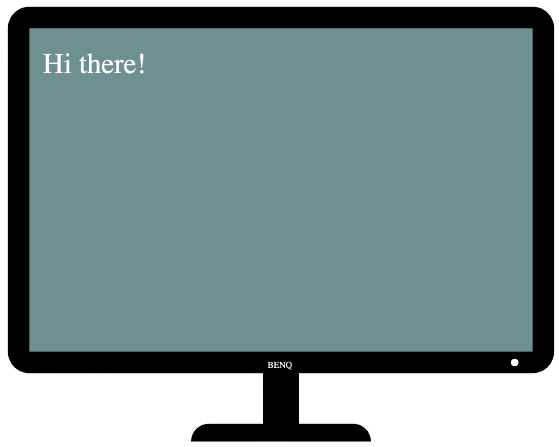
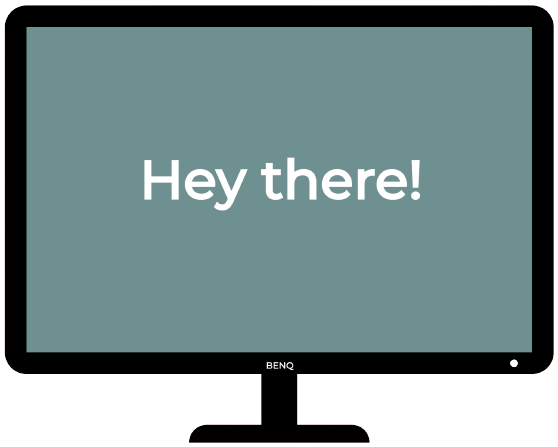
update 404 page to fix site styling

diff --git a/jamestuttleportfolio/src/stylesheets/main.css b/jamestuttleportfolio/src/stylesheets/main.css
@@ -1,20 +1,3 @@
-@keyframes flash_text {
-  0% {
-    opacity: 1; }
-  50% {
-    opacity: 0.3; }
-  100% {
-    opacity: 1; } }
-@keyframes scroll_down {
-  0% {
-    top: 15px;
-    opacity: 1; }
-  50% {
-    top: 22px;
-    opacity: 0.3; }
-  100% {
-    top: 15px;
-    opacity: 1; } }
 .breadcrumb-navigation {
   margin-bottom: 30px; }
   .breadcrumb-navigation a {
@@ -251,6 +234,32 @@ p {
     height: 300px;
     margin-right: 5%; }
   #home #text-with-image p {
+    margin: 20px 0 30px 0;
+    font-size: 1.1em;
+    max-width: 60ch; }
+
+#notfound #text-with-image {
+  display: flex;
+  flex-direction: row;
+  justify-content: flex-start;
+  align-items: center; }
+  #notfound #text-with-image div.illustration {
+    width: 300px;
+    height: 300px;
+    margin-right: 5%; }
+    #notfound #text-with-image div.illustration .circle {
+      width: 300px;
+      height: 300px;
+      border-radius: 300px;
+      background-color: #628D90;
+      color: #FFFFFF;
+      display: flex;
+      flex-direction: column;
+      justify-content: center;
+      align-items: center; }
+      #notfound #text-with-image div.illustration .circle img {
+        width: 200px; }
+  #notfound #text-with-image p {
     margin: 20px 0 30px 0;
     font-size: 1.1em;
     max-width: 60ch; }

diff --git a/jamestuttleportfolio/src/components/views/NotFound.js b/jamestuttleportfolio/src/components/views/NotFound.js
@@ -1,12 +1,29 @@
 import React from 'react'
+import Header from '../Header';
+import Footer from '../Footer';
+import { Link } from 'react-router-dom';
+import monitor from '../../assets/images/404-monitor.png';
 
 class NotFound extends React.Component {
   render() {
 
     return (
-      <div>
-        
-      </div>
+      <main id='notfound'>
+          <Header />
+            <div id='text-with-image'>
+              <div class='illustration'>
+                <div class='circle'>
+                  <img id='monitor_image' alt="monitor created using css" src={monitor}/>
+                </div>
+              </div>
+              <div id='text-container'>
+                <h1>Page Not Found</h1>
+                <p>It seems the page you're looking for doesn't exist or has been removed.<br/>Head home using the link below.</p>
+                <Link className='primary' to='/home'>Back to home</Link>
+              </div>
+            </div>
+          <Footer />
+      </main>
     );
   }
 };

diff --git a/jamestuttleportfolio/src/stylesheets/pages/_notfound.scss b/jamestuttleportfolio/src/stylesheets/pages/_notfound.scss
@@ -1,0 +1,36 @@
+#notfound {
+    #text-with-image {
+        display: flex;
+        flex-direction: row;
+        justify-content: flex-start;
+        align-items: center;
+
+        div.illustration {
+            width: 300px;
+            height: 300px;
+            margin-right: 5%;
+
+            .circle {
+                width: 300px;
+                height: 300px;
+                border-radius: 300px;
+                background-color: $color-notfound-circle;
+                color: $color-notfound-circle-text;
+                display: flex;
+                flex-direction: column;
+                justify-content: center;
+                align-items: center;
+
+                img {
+                    width: 200px;
+                }
+            }
+        }
+
+        p {
+            margin: 20px 0 30px 0;
+            font-size: 1.1em;
+            max-width: 60ch;
+        }
+    }
+}

diff --git a/jamestuttleportfolio/src/stylesheets/helpers/_colours.scss b/jamestuttleportfolio/src/stylesheets/helpers/_colours.scss
@@ -14,6 +14,9 @@ $color-button-submit-text:               #FFFFFF;
 $color-breadcrumb-link:                  #628D90;
 $color-breadcrumb-line:                  #575757;
 
+$color-notfound-circle:                  #628D90;
+$color-notfound-circle-text:             #FFFFFF;
+
 main.dark_mode {
     $color-background:                       #628D90;
     $color-primary:                          #FFFFFF;

diff --git a/jamestuttleportfolio/src/components/views/Home.js b/jamestuttleportfolio/src/components/views/Home.js
@@ -7,7 +7,7 @@ import { Link } from 'react-router-dom';
 class Home extends React.Component {
   render() {
     return (
-        <main id='home' className='dark_mode'>
+        <main id='home'>
             <Header />
             <div id='text-with-image'>
               <img id='image_me' className='circle_image' src={meImage} alt="logo" />

diff --git a/jamestuttleportfolio/src/stylesheets/main.scss b/jamestuttleportfolio/src/stylesheets/main.scss
@@ -1,6 +1,5 @@
 @import "helpers/colours";
 @import "helpers/fonts";
-@import "helpers/keyframes";
 
 @import "components/breadcrumb";
 @import "components/buttons";
@@ -17,6 +16,7 @@
 @import "pages/contact";
 @import "pages/projects";
 @import "pages/home";
+@import "pages/notfound";
 
 @import "layout/body";
 @import "layout/header";

diff --git a/jamestuttleportfolio/src/stylesheets/pages/_home.scss b/jamestuttleportfolio/src/stylesheets/pages/_home.scss
@@ -1,6 +1,4 @@
 #home {
-
-
     #text-with-image {
         display: flex;
         flex-direction: row;
